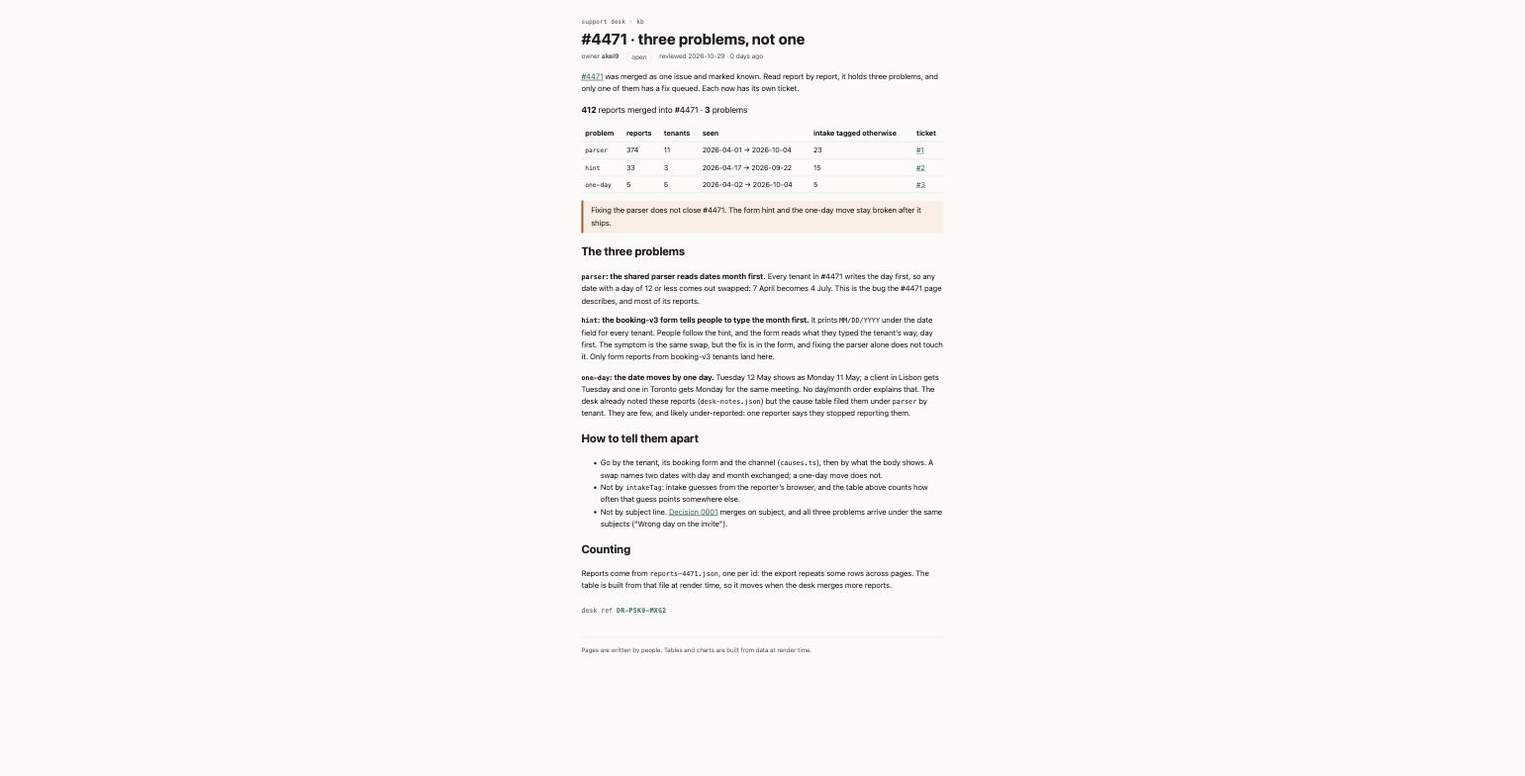
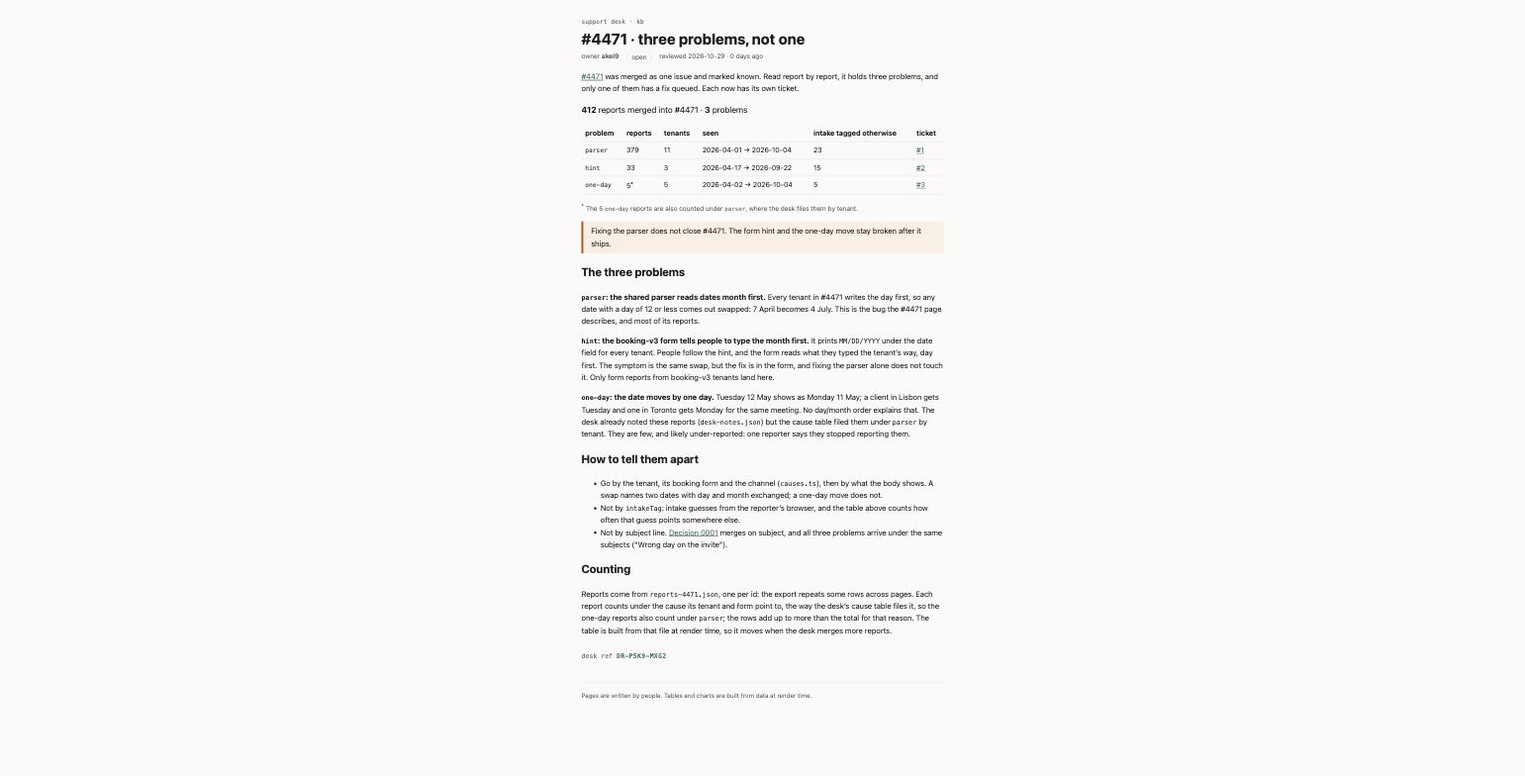
Count #4471's problems the desk's way: parser 379 incl. the 5 one-day reports
The table now reuses the desk's groupByCause and readAs, so the page matches
the desk's cause table and issue #1 (379). The one-day row is starred and
footnoted as also counted under parser. Re-rendered.

Changed region(s): [[0.3738, 0.2449, 0.623, 0.8571], [0.3738, 0.8878, 0.5295, 0.9184]]

diff --git a/rendered/kb/incidents/4471/problems.html b/rendered/kb/incidents/4471/problems.html
@@ -9,22 +9,22 @@
 		<link href="../../../_app/immutable/chunks/B2Ul7l_u.js" rel="modulepreload">
 		<link href="../../../_app/immutable/chunks/BCPXOG7W.js" rel="modulepreload">
 		<link href="../../../_app/immutable/chunks/Dh1V97Jm.js" rel="modulepreload">
-		<link href="../../../_app/immutable/entry/app.C34pQ1vo.js" rel="modulepreload">
+		<link href="../../../_app/immutable/entry/app.CI-gMAUJ.js" rel="modulepreload">
 		<link href="../../../_app/immutable/nodes/0.C9KfiiPz.js" rel="modulepreload">
 		<link href="../../../_app/immutable/chunks/DK3Fl9T5.js" rel="modulepreload">
-		<link href="../../../_app/immutable/nodes/5.VGcChs69.js" rel="modulepreload">
-		<link href="../../../_app/immutable/chunks/BUmm_ZmZ.js" rel="modulepreload">
+		<link href="../../../_app/immutable/nodes/5.C_yEuhtD.js" rel="modulepreload">
+		<link href="../../../_app/immutable/chunks/D4fybYTj.js" rel="modulepreload">
 		<link href="../../../_app/immutable/chunks/BTPwLomz.js" rel="modulepreload">
 		<link href="../../../_app/immutable/chunks/CVBzP17p.js" rel="modulepreload">
 		<link href="../../../_app/immutable/chunks/BIy4WKJS.js" rel="modulepreload">
 		<!--e2jw2j--><!----><title>#4471 · three problems, not one · support kb</title>
 		<link href="../../../_app/immutable/assets/runbook.COyw0cbZ.css" rel="stylesheet">
 		<link href="../../../_app/immutable/assets/Callout.AbLv9dM_.css" rel="stylesheet">
-		<link href="../../../_app/immutable/assets/_page.lbj36FF-.css" rel="stylesheet">
+		<link href="../../../_app/immutable/assets/_page.DUgw4t3M.css" rel="stylesheet">
   </head>
   <body data-sveltekit-preload-data="hover">
     <div style="display: contents"><!--[--><!--[--><!--[0--><!--[--><!--[--><!--[-1--><!--[--><div class="kb svelte-e2jw2j"><header><a class="crumb svelte-e2jw2j" href="/kb">support desk · kb</a> <h1 class="svelte-e2jw2j">#4471 · three problems, not one</h1> <p class="meta svelte-e2jw2j"><span>owner <b>akei9</b></span> <span class="status open svelte-e2jw2j">open</span> <span class="svelte-e2jw2j">reviewed 2026-10-29 · 0 days ago</span></p></header> <!--[-1--><!--]--> <main><p><a href="/kb/incidents/4471">#4471</a> was merged as one issue and marked known. Read report by report, it
-holds three problems, and only one of them has a fix queued. Each now has its own ticket.</p> <p class="sum svelte-1op6c6"><strong>412</strong> reports merged into #4471 · <strong>3</strong> problems</p> <table><thead><tr><th>problem</th><th>reports</th><th>tenants</th><th>seen</th><th>intake tagged otherwise</th><th>ticket</th></tr></thead><tbody><!--[--><tr class="svelte-1op6c6"><td class="svelte-1op6c6"><code>parser</code></td><td class="svelte-1op6c6">374</td><td class="svelte-1op6c6">11</td><td class="svelte-1op6c6">2026-04-01 → 2026-10-04</td><td class="svelte-1op6c6">23</td><td class="svelte-1op6c6"><!--[0--><a href="https://github.com/akei9/mega-dev/issues/1">#1</a><!--]--></td></tr><tr class="svelte-1op6c6"><td class="svelte-1op6c6"><code>hint</code></td><td class="svelte-1op6c6">33</td><td class="svelte-1op6c6">3</td><td class="svelte-1op6c6">2026-04-17 → 2026-09-22</td><td class="svelte-1op6c6">15</td><td class="svelte-1op6c6"><!--[0--><a href="https://github.com/akei9/mega-dev/issues/2">#2</a><!--]--></td></tr><tr class="svelte-1op6c6"><td class="svelte-1op6c6"><code>one-day</code></td><td class="svelte-1op6c6">5</td><td class="svelte-1op6c6">5</td><td class="svelte-1op6c6">2026-04-02 → 2026-10-04</td><td class="svelte-1op6c6">5</td><td class="svelte-1op6c6"><!--[0--><a href="https://github.com/akei9/mega-dev/issues/3">#3</a><!--]--></td></tr><!--]--></tbody></table><!----> <aside class="warn svelte-17bri61"><!---->Fixing the parser does not close #4471. The form hint and the one-day move stay broken after it ships.<!----></aside><!----> <h2>The three problems</h2> <p><strong><code>parser</code>: the shared parser reads dates month first.</strong> Every tenant in #4471 writes the day
+holds three problems, and only one of them has a fix queued. Each now has its own ticket.</p> <p class="sum svelte-1op6c6"><strong>412</strong> reports merged into #4471 · <strong>3</strong> problems</p> <table><thead><tr><th>problem</th><th>reports</th><th>tenants</th><th>seen</th><th>intake tagged otherwise</th><th>ticket</th></tr></thead><tbody><!--[--><tr class="svelte-1op6c6"><td class="svelte-1op6c6"><code>parser</code></td><td class="svelte-1op6c6">379<!--[-1--><!--]--></td><td class="svelte-1op6c6">11</td><td class="svelte-1op6c6">2026-04-01 → 2026-10-04</td><td class="svelte-1op6c6">23</td><td class="svelte-1op6c6"><!--[0--><a href="https://github.com/akei9/mega-dev/issues/1">#1</a><!--]--></td></tr><tr class="svelte-1op6c6"><td class="svelte-1op6c6"><code>hint</code></td><td class="svelte-1op6c6">33<!--[-1--><!--]--></td><td class="svelte-1op6c6">3</td><td class="svelte-1op6c6">2026-04-17 → 2026-09-22</td><td class="svelte-1op6c6">15</td><td class="svelte-1op6c6"><!--[0--><a href="https://github.com/akei9/mega-dev/issues/2">#2</a><!--]--></td></tr><tr class="svelte-1op6c6"><td class="svelte-1op6c6"><code>one-day</code></td><td class="svelte-1op6c6">5<!--[0--><sup>*</sup><!--]--></td><td class="svelte-1op6c6">5</td><td class="svelte-1op6c6">2026-04-02 → 2026-10-04</td><td class="svelte-1op6c6">5</td><td class="svelte-1op6c6"><!--[0--><a href="https://github.com/akei9/mega-dev/issues/3">#3</a><!--]--></td></tr><!--]--></tbody></table> <!--[--><p class="note svelte-1op6c6"><sup>*</sup> The 5 <code>one-day</code> reports are also counted under <!--[--><!----><code>parser</code><!--]-->, where the desk files them by tenant.</p><!--]--><!----> <aside class="warn svelte-17bri61"><!---->Fixing the parser does not close #4471. The form hint and the one-day move stay broken after it ships.<!----></aside><!----> <h2>The three problems</h2> <p><strong><code>parser</code>: the shared parser reads dates month first.</strong> Every tenant in #4471 writes the day
 first, so any date with a day of 12 or less comes out swapped: 7 April becomes 4 July. This is the
 bug the #4471 page describes, and most of its reports.</p> <p><strong><code>hint</code>: the booking-v3 form tells people to type the month first.</strong> It prints <code>MM/DD/YYYY</code> under the date field for every tenant. People follow the hint, and the form reads what they typed
 the tenant’s way, day first. The symptom is the same swap, but the fix is in the form, and fixing
@@ -35,21 +35,24 @@ them under <code>parser</code> by tenant. They are few, and likely under-reporte
 stopped reporting them.</p> <h2>How to tell them apart</h2> <ul><li>Go by the tenant, its booking form and the channel (<code>causes.ts</code>), then by what the body shows. A
 swap names two dates with day and month exchanged; a one-day move does not.</li> <li>Not by <code>intakeTag</code>: intake guesses from the reporter’s browser, and the table above counts how
 often that guess points somewhere else.</li> <li>Not by subject line. <a href="/kb/decisions/0001-dedupe-by-subject">Decision 0001</a> merges on subject,
-and all three problems arrive under the same subjects (“Wrong day on the invite”).</li></ul> <h2>Counting</h2> <p>Reports come from <code>reports-4471.json</code>, one per id: the export repeats some rows across pages. The
-table is built from that file at render time, so it moves when the desk merges more reports.</p> <!--[0--><p class="stamp svelte-1280m42">desk ref <b class="svelte-1280m42">DR-P5K9-MXG2</b></p><!--]--><!----><!----></main> <footer class="svelte-e2jw2j">Pages are written by people. Tables and charts are built from data at render time.</footer></div><!--]--><!--]--><!--]--><!----><!--]--><!--]--><!--]--><!----> <!--[-1--><!--]--><!--]-->
+and all three problems arrive under the same subjects (“Wrong day on the invite”).</li></ul> <h2>Counting</h2> <p>Reports come from <code>reports-4471.json</code>, one per id: the export repeats some rows across pages. Each
+report counts under the cause its tenant and form point to, the way the desk’s cause table files it,
+so the one-day reports also count under <code>parser</code>; the rows add up to more than the total for that
+reason. The table is built from that file at render time, so it moves when the desk merges more
+reports.</p> <!--[0--><p class="stamp svelte-1280m42">desk ref <b class="svelte-1280m42">DR-P5K9-MXG2</b></p><!--]--><!----><!----></main> <footer class="svelte-e2jw2j">Pages are written by people. Tables and charts are built from data at render time.</footer></div><!--]--><!--]--><!--]--><!----><!--]--><!--]--><!--]--><!----> <!--[-1--><!--]--><!--]-->
 			
 			<script>
 				{
-					__sveltekit_ez308u = {
+					__sveltekit_1kzz2r5 = {
 						base: new URL("../../..", location).pathname.slice(0, -1),
-						version: "1793236386397"
+						version: "1793236572917"
 					};
 
 					const element = document.currentScript.parentElement;
 
 					import("../../../_app/immutable/entry/start.CH5w6lId.js").then(async (kit) => {
-						kit.init(__sveltekit_ez308u);
-						const app = await import("../../../_app/immutable/entry/app.C34pQ1vo.js");
+						kit.init(__sveltekit_1kzz2r5);
+						const app = await import("../../../_app/immutable/entry/app.CI-gMAUJ.js");
 						kit.start(app, element, {
 							node_ids: [0, 5],
 							data: [null,null],

diff --git a/rendered/_app/immutable/chunks/D4fybYTj.js b/rendered/_app/immutable/chunks/D4fybYTj.js
@@ -1,0 +1,17 @@
+import{t as e}from"./DK3Fl9T5.js";import{E as t,F as n,H as r,I as i,K as a,L as o,N as s,O as c,R as l,S as u,T as d,U as f,W as p,_ as m,c as h,d as g,h as _,k as v,q as y,r as b,t as x,w as S}from"./BCPXOG7W.js";import{t as C}from"./BTPwLomz.js";import{n as w,t as T}from"./CVBzP17p.js";import{a as E,l as D,o as O,r as k,t as A}from"./BIy4WKJS.js";function j(e,t,n,r){let i=D(e).filter(e=>e.mergedInto===t),a=E(i,n),o=a.map(e=>({problem:e.cause,reports:e.reports,tenants:e.tenants,firstSeen:e.firstSeen,lastSeen:e.lastSeen,taggedOther:e.reports.filter(t=>t.meta.intakeTag!==e.cause).length,countedUnder:[]})),s=i.filter(e=>r.includes(e.id));if(s.length){let e=s.map(e=>e.receivedAt.slice(0,10)).sort();o.push({problem:`one-day`,reports:s,tenants:new Set(s.map(e=>e.tenant)).size,firstSeen:e[0],lastSeen:e[e.length-1],taggedOther:s.length,countedUnder:a.filter(e=>O(e,r)>0).map(e=>e.cause)})}return{merged:i.length,rows:o}}var M=t(`<sup>*</sup>`),N=t(`<a> </a>`),P=t(`<tr><td class="svelte-1op6c6"><code> </code></td><td class="svelte-1op6c6"> <!></td><td class="svelte-1op6c6"> </td><td class="svelte-1op6c6"> </td><td class="svelte-1op6c6"> </td><td class="svelte-1op6c6"><!></td></tr>`),F=t(` <code> </code>`,1),I=t(`<p class="note svelte-1op6c6"><sup>*</sup> <code> </code> reports are also counted under <!>, where the desk files them by tenant.</p>`),L=t(`<p class="sum svelte-1op6c6"><strong> </strong> <strong> </strong> </p> <table><thead><tr><th>problem</th><th>reports</th><th>tenants</th><th>seen</th><th>intake tagged otherwise</th><th>ticket</th></tr></thead><tbody></tbody></table> <!>`,1);function R(e,t){p(t,!0);let d=r(()=>j(w,t.ticket,k,T.oneDayMove)),b=e=>`#`+e.split(`/`).pop();var x=L(),C=i(x),E=n(C),D=o(E,!0),O=l(E),A=l(O),R=o(A,!0),z=l(A);y(C);var B=l(C,2),V=l(n(B));_(V,21,()=>v(d).rows,e=>e.problem,(e,i)=>{let a=r(()=>v(i).problem===`unplaced`?void 0:t.issues[v(i).problem]);var d=P();let f;var p=n(d),_=n(p),x=o(_,!0);y(p);var C=l(p),w=n(C,!0),T=l(w),E=e=>{var t=M();S(e,t)};m(T,e=>{v(i).countedUnder.length&&e(E)}),y(C);var D=l(C),O=o(D,!0),k=l(D),A=o(k),j=l(k),F=o(j,!0),I=l(j),L=n(I),R=e=>{var t=N(),n=o(t,!0);s(e=>{h(t,`href`,v(a)),u(n,e)},[()=>b(v(a))]),S(e,t)},z=e=>{var t=c(`no ticket yet`);S(e,t)};m(L,e=>{v(a)?e(R):e(z,-1)}),y(I),y(d),s(()=>{f=g(d,1,`svelte-1op6c6`,null,f,{open:!v(a)}),u(x,v(i).problem),u(w,v(i).reports.length),u(O,v(i).tenants),u(A,`${v(i).firstSeen??``} → ${v(i).lastSeen??``}`),u(F,v(i).taggedOther)}),S(e,d)}),y(V),y(B);var H=l(B,2);_(H,17,()=>v(d).rows.filter(e=>e.countedUnder.length),e=>e.problem,(e,t)=>{var r=I(),c=l(n(r)),d=l(c),f=o(d,!0),p=l(d,2);_(p,18,()=>v(t).countedUnder,e=>e,(e,t,n)=>{a();var r=F(),c=i(r,!0),d=l(c),f=o(d,!0);s(()=>{u(c,v(n)?`, `:``),u(f,t)}),S(e,r)}),a(),y(r),s(()=>{u(c,` The ${v(t).reports.length??``} `),u(f,v(t).problem)}),S(e,r)}),s(()=>{u(D,v(d).merged),u(O,` reports merged into #${t.ticket??``} · `),u(R,v(d).rows.length),u(z,` ${v(d).rows.length===1?`problem`:`problems`}`)}),S(e,x),f()}var z=`0123456789ABCDEFGHJKMNPQRSTVWXYZ`;function B(e,t){let n=t>>>0;for(let t=0;t<e.length;t++)n^=e.charCodeAt(t),n=Math.imul(n,16777619)>>>0;return n}function V(e){let t=e.trim(),n=B(t,2166136261),r=B(t,2654435769),i=BigInt(n)<<8n|BigInt(r&255),a=``;for(let e=0;e<8;e++)a=z[Number(i&31n)]+a,i>>=5n;return`DR-${a.slice(0,4)}-${a.slice(4)}`}var H=t(`<p class="stamp svelte-1280m42">desk ref <b class="svelte-1280m42"> </b></p>`),U=t(`<p class="stamp missing svelte-1280m42">no desk ref: this page isn't signed (no <code>signature</code> in its frontmatter)</p>`);function W(e,t){p(t,!0);let a=r(()=>t.signature?V(t.signature):null);var c=d(),h=i(c),g=e=>{var t=H(),r=l(n(t)),i=o(r,!0);y(t),s(()=>u(i,v(a))),S(e,t)},_=e=>{var t=U();S(e,t)};m(h,e=>{v(a)?e(g):e(_,-1)}),S(e,c),f()}var G=e({default:()=>$,metadata:()=>K}),K={layout:`runbook`,title:`#4471 · three problems, not one`,owner:`akei9`,status:`open`,reviewed:`2026-10-29T00:00:00.000Z`,signature:`v1.eyJzdWIiOiIxMDUxIiwiYXVkIjoiY2hhbGxlbmdlOndoYXQtaXQtc2hvd3MiLCJpYXQiOjE3OTMyMzYxMDAsImV4cCI6MTc5MzMyMjUwMH0.32QMIhauBYZtFXIuqAozmKy5GXE25UvGVQ1LhZ9hlCM`},{layout:q,title:J,owner:Y,status:X,reviewed:ee,signature:Z}=K,Q=t(`<p><a href="/kb/incidents/4471">#4471</a> was merged as one issue and marked known. Read report by report, it
+holds three problems, and only one of them has a fix queued. Each now has its own ticket.</p> <!> <!> <h2>The three problems</h2> <p><strong><code>parser</code>: the shared parser reads dates month first.</strong> Every tenant in #4471 writes the day
+first, so any date with a day of 12 or less comes out swapped: 7 April becomes 4 July. This is the
+bug the #4471 page describes, and most of its reports.</p> <p><strong><code>hint</code>: the booking-v3 form tells people to type the month first.</strong> It prints <code>MM/DD/YYYY</code> under the date field for every tenant. People follow the hint, and the form reads what they typed
+the tenant’s way, day first. The symptom is the same swap, but the fix is in the form, and fixing
+the parser alone does not touch it. Only form reports from booking-v3 tenants land here.</p> <p><strong><code>one-day</code>: the date moves by one day.</strong> Tuesday 12 May shows as Monday 11 May; a client in
+Lisbon gets Tuesday and one in Toronto gets Monday for the same meeting. No day/month order
+explains that. The desk already noted these reports (<code>desk-notes.json</code>) but the cause table filed
+them under <code>parser</code> by tenant. They are few, and likely under-reported: one reporter says they
+stopped reporting them.</p> <h2>How to tell them apart</h2> <ul><li>Go by the tenant, its booking form and the channel (<code>causes.ts</code>), then by what the body shows. A
+swap names two dates with day and month exchanged; a one-day move does not.</li> <li>Not by <code>intakeTag</code>: intake guesses from the reporter’s browser, and the table above counts how
+often that guess points somewhere else.</li> <li>Not by subject line. <a href="/kb/decisions/0001-dedupe-by-subject">Decision 0001</a> merges on subject,
+and all three problems arrive under the same subjects (“Wrong day on the invite”).</li></ul> <h2>Counting</h2> <p>Reports come from <code>reports-4471.json</code>, one per id: the export repeats some rows across pages. Each
+report counts under the cause its tenant and form point to, the way the desk’s cause table files it,
+so the one-day reports also count under <code>parser</code>; the rows add up to more than the total for that
+reason. The table is built from that file at render time, so it moves when the desk merges more
+reports.</p> <!>`,1);function $(e,t){let n=x(t,[`children`,`$$slots`,`$$events`,`$$legacy`]),r={parser:`https://github.com/akei9/mega-dev/issues/1`,hint:`https://github.com/akei9/mega-dev/issues/2`,"one-day":`https://github.com/akei9/mega-dev/issues/3`};C(e,b(()=>n,()=>K,{children:(e,t)=>{var n=Q(),o=l(i(n),2);R(o,{ticket:4471,get issues(){return r}});var s=l(o,2);A(s,{kind:`warn`,children:(e,t)=>{a();var n=c(`Fixing the parser does not close #4471. The form hint and the one-day move stay broken after it ships.`);S(e,n)},$$slots:{default:!0}}),W(l(s,18),{get signature(){return Z}}),S(e,n)},$$slots:{default:!0}}))}export{$ as n,G as t};

diff --git a/src/lib/kb/problems.ts b/src/lib/kb/problems.ts
@@ -1,11 +1,11 @@
-// #4471 split by what each report shows. causes.ts says which bug a report's tenant and form point to;
-// desk-notes.json lists the reports that show a one-day move instead. Those are a problem of their own,
-// not a footnote under `parser`.
-import { causeOf, uniqueById, type Cause, type Report, type Tenant } from '#lib/kb/causes';
+// #4471 split into the problems its reports show. Counted the desk's way: each report under the cause
+// its tenant and form point to (causes.ts). The reports the desk read as a one-day move
+// (desk-notes.json) stay counted where they're filed, and are a problem of their own on top.
+import { groupByCause, readAs, uniqueById, type Cause, type Report, type Tenant } from '#lib/kb/causes';
 
 export type Problem = Cause | 'one-day';
 
-export type ProblemGroup = {
+export type ProblemRow = {
   problem: Problem | 'unplaced';
   reports: Report[];
   tenants: number;
@@ -13,37 +13,40 @@ export type ProblemGroup = {
   lastSeen: string;
   // Reports intake tagged as something else (`meta.intakeTag` is a guess from the browser).
   taggedOther: number;
+  // For one-day: the cause each of its reports is counted under. Empty for the others.
+  countedUnder: string[];
 };
-
-export function problemOf(r: Report, t: Tenant | undefined, oneDay: readonly string[]): ProblemGroup['problem'] {
-  if (oneDay.includes(r.id)) return 'one-day';
-  return causeOf(r, t) ?? 'unplaced';
-}
 
 export function splitTicket(
   reports: Report[],
   ticket: number,
   tenantOf: (r: Report) => Tenant | undefined,
   oneDay: readonly string[],
-): { merged: number; groups: ProblemGroup[] } {
+): { merged: number; rows: ProblemRow[] } {
   const merged = uniqueById(reports).filter((r) => r.mergedInto === ticket);
-  const byProblem = new Map<ProblemGroup['problem'], Report[]>();
-  for (const r of merged) {
-    const p = problemOf(r, tenantOf(r), oneDay);
-    byProblem.set(p, [...(byProblem.get(p) ?? []), r]);
+  const groups = groupByCause(merged, tenantOf);
+  const rows: ProblemRow[] = groups.map((g) => ({
+    problem: g.cause,
+    reports: g.reports,
+    tenants: g.tenants,
+    firstSeen: g.firstSeen,
+    lastSeen: g.lastSeen,
+    taggedOther: g.reports.filter((r) => r.meta.intakeTag !== g.cause).length,
+    countedUnder: [],
+  }));
+
+  const moved = merged.filter((r) => oneDay.includes(r.id));
+  if (moved.length) {
+    const days = moved.map((r) => r.receivedAt.slice(0, 10)).sort();
+    rows.push({
+      problem: 'one-day',
+      reports: moved,
+      tenants: new Set(moved.map((r) => r.tenant)).size,
+      firstSeen: days[0],
+      lastSeen: days[days.length - 1],
+      taggedOther: moved.length,
+      countedUnder: groups.filter((g) => readAs(g, oneDay) > 0).map((g) => g.cause),
+    });
   }
-  const groups = [...byProblem.entries()]
-    .map(([problem, rs]) => {
-      const days = rs.map((r) => r.receivedAt.slice(0, 10)).sort();
-      return {
-        problem,
-        reports: rs,
-        tenants: new Set(rs.map((r) => r.tenant)).size,
-        firstSeen: days[0],
-        lastSeen: days[days.length - 1],
-        taggedOther: rs.filter((r) => r.meta.intakeTag !== problem).length,
-      };
-    })
-    .sort((a, b) => b.reports.length - a.reports.length);
-  return { merged: merged.length, groups };
+  return { merged: merged.length, rows };
 }

diff --git a/rendered/kb.html b/rendered/kb.html
@@ -9,22 +9,22 @@
 		<link href="./_app/immutable/chunks/B2Ul7l_u.js" rel="modulepreload">
 		<link href="./_app/immutable/chunks/BCPXOG7W.js" rel="modulepreload">
 		<link href="./_app/immutable/chunks/Dh1V97Jm.js" rel="modulepreload">
-		<link href="./_app/immutable/entry/app.C34pQ1vo.js" rel="modulepreload">
+		<link href="./_app/immutable/entry/app.CI-gMAUJ.js" rel="modulepreload">
 		<link href="./_app/immutable/nodes/0.C9KfiiPz.js" rel="modulepreload">
 		<link href="./_app/immutable/chunks/DK3Fl9T5.js" rel="modulepreload">
-		<link href="./_app/immutable/nodes/2.C8n5vXWO.js" rel="modulepreload">
+		<link href="./_app/immutable/nodes/2.BUaVmM_C.js" rel="modulepreload">
 		<link href="./_app/immutable/chunks/BTPwLomz.js" rel="modulepreload">
 		<link href="./_app/immutable/chunks/YX22L_Ud.js" rel="modulepreload">
 		<link href="./_app/immutable/chunks/CgeRC4yK.js" rel="modulepreload">
 		<link href="./_app/immutable/chunks/CVBzP17p.js" rel="modulepreload">
 		<link href="./_app/immutable/chunks/BIy4WKJS.js" rel="modulepreload">
-		<link href="./_app/immutable/chunks/BUmm_ZmZ.js" rel="modulepreload">
+		<link href="./_app/immutable/chunks/D4fybYTj.js" rel="modulepreload">
 		<link href="./_app/immutable/chunks/BGqJVSDw.js" rel="modulepreload">
 		<!--e2jw2j--><!----><title>Support knowledge base · support kb</title>
 		<link href="./_app/immutable/assets/runbook.COyw0cbZ.css" rel="stylesheet">
 		<link href="./_app/immutable/assets/Callout.AbLv9dM_.css" rel="stylesheet">
 		<link href="./_app/immutable/assets/_page.D56XP2ro.css" rel="stylesheet">
-		<link href="./_app/immutable/assets/_page.lbj36FF-.css" rel="stylesheet">
+		<link href="./_app/immutable/assets/_page.DUgw4t3M.css" rel="stylesheet">
 		<link href="./_app/immutable/assets/_page.DO6Yid7X.css" rel="stylesheet">
 		<link href="./_app/immutable/assets/2.Bt0MwIZg.css" rel="stylesheet">
   </head>
@@ -34,16 +34,16 @@ computed by a component, not typed into a paragraph.</p><!----></main> <footer c
 			
 			<script>
 				{
-					__sveltekit_ez308u = {
+					__sveltekit_1kzz2r5 = {
 						base: new URL(".", location).pathname.slice(0, -1),
-						version: "1793236386397"
+						version: "1793236572917"
 					};
 
 					const element = document.currentScript.parentElement;
 
 					import("./_app/immutable/entry/start.CH5w6lId.js").then(async (kit) => {
-						kit.init(__sveltekit_ez308u);
-						const app = await import("./_app/immutable/entry/app.C34pQ1vo.js");
+						kit.init(__sveltekit_1kzz2r5);
+						const app = await import("./_app/immutable/entry/app.CI-gMAUJ.js");
 						kit.start(app, element, {
 							node_ids: [0, 2],
 							data: [null,null],

diff --git a/rendered/_app/immutable/nodes/2.BUaVmM_C.js b/rendered/_app/immutable/nodes/2.BUaVmM_C.js
@@ -1,0 +1,2 @@
+import{E as e,F as t,I as n,K as r,L as i,N as a,R as o,S as s,U as c,W as l,c as u,d,h as f,i as p,k as m,q as h,r as g,t as _,w as v}from"../chunks/BCPXOG7W.js";import{n as y,r as b,t as x}from"../chunks/BTPwLomz.js";import{t as S}from"../chunks/YX22L_Ud.js";import{t as C}from"../chunks/CgeRC4yK.js";import{t as w}from"../chunks/D4fybYTj.js";import{t as T}from"../chunks/BGqJVSDw.js";var E=e(`<tr><td><a> </a></td><td> </td><td> </td><td> </td></tr>`),D=e(`<table><thead><tr><th>page</th><th>owner</th><th>status</th><th>reviewed</th></tr></thead><tbody></tbody></table>`);function O(e,n){l(n,!1);let r=Object.entries(Object.assign({"/src/routes/kb/decisions/0001-dedupe-by-subject/+page.svx":S,"/src/routes/kb/incidents/4471/+page.svx":C,"/src/routes/kb/incidents/4471/problems/+page.svx":w,"/src/routes/kb/triage/dedupe/+page.svx":T})).map(([e,t])=>({href:e.replace(`/src/routes`,``).replace(`/+page.svx`,``),...t.metadata})).sort((e,t)=>e.href.localeCompare(t.href));p();var g=D(),_=o(t(g));f(_,5,()=>r,e=>e.href,(e,n)=>{var r=E(),c=t(r),l=t(c),f=i(l,!0);h(c);var p=o(c),g=i(p,!0),_=o(p),x=i(_,!0),S=o(_);let C;var w=i(S,!0);h(r),a((e,t)=>{u(l,`href`,m(n).href),s(f,m(n).title),s(g,m(n).owner),s(x,m(n).status),C=d(S,1,`svelte-tbc1ha`,null,C,{stale:e}),s(w,t)},[()=>y(m(n).reviewed)>180,()=>b(m(n).reviewed)]),v(e,r)}),h(_),h(g),v(e,g),c()}var k={layout:`runbook`,title:`Support knowledge base`,owner:`support desk`,status:`living`,reviewed:`2026-09-28T00:00:00.000Z`},{layout:A,title:j,owner:M,status:N,reviewed:P}=k,F=e(`<p>What the support desk knows, kept next to the code that knows it. One desk, every product: <code>sched-prod</code> (calendar invites for about 300k people) and the rest. When something breaks, the reports land here first.</p> <p>Start with <a href="/kb/triage/dedupe">triage</a> if you are new on the desk.</p> <h2>Pages</h2> <!> <h2>Writing a page</h2> <p>Keep the words here and the logic in <code>src/lib</code>. A number that can be computed should be
+computed by a component, not typed into a paragraph.</p>`,1);function I(e,t){let i=_(t,[`children`,`$$slots`,`$$events`,`$$legacy`]);x(e,g(()=>i,()=>k,{children:(e,t)=>{var i=F();O(o(n(i),6),{}),r(4),v(e,i)},$$slots:{default:!0}}))}export{I as component};

diff --git a/rendered/_app/immutable/entry/app.CI-gMAUJ.js b/rendered/_app/immutable/entry/app.CI-gMAUJ.js
@@ -1,0 +1,2 @@
+const __vite__mapDeps=(i,m=__vite__mapDeps,d=(m.f||(m.f=["../nodes/0.C9KfiiPz.js","../chunks/DK3Fl9T5.js","../chunks/BCPXOG7W.js","../nodes/1.mOwa9YdW.js","../chunks/Dh1V97Jm.js","./payload.DSmR2FwN.js","../nodes/2.BUaVmM_C.js","../chunks/BTPwLomz.js","../assets/runbook.COyw0cbZ.css","../chunks/YX22L_Ud.js","../chunks/CgeRC4yK.js","../chunks/CVBzP17p.js","../chunks/BIy4WKJS.js","../assets/Callout.AbLv9dM_.css","../assets/_page.D56XP2ro.css","../chunks/D4fybYTj.js","../assets/_page.DUgw4t3M.css","../chunks/BGqJVSDw.js","../assets/_page.DO6Yid7X.css","../assets/2.Bt0MwIZg.css","../nodes/3.DRxPfvn3.js","../nodes/4.rt2PfD_4.js","../nodes/5.C_yEuhtD.js","../nodes/6.sFtxrtyV.js"])))=>i.map(i=>d[i]);
+import{t as e}from"../chunks/CRzLMJPS.js";var t={},n=[()=>e(()=>import(`../nodes/0.C9KfiiPz.js`),__vite__mapDeps([0,1,2]),import.meta.url),()=>e(()=>import(`../nodes/1.mOwa9YdW.js`),__vite__mapDeps([3,2,4,5]),import.meta.url),()=>e(()=>import(`../nodes/2.BUaVmM_C.js`),__vite__mapDeps([6,2,7,8,9,1,10,11,12,13,14,15,16,17,18,19]),import.meta.url),()=>e(()=>import(`../nodes/3.DRxPfvn3.js`),__vite__mapDeps([20,9,1,2,7,8]),import.meta.url),()=>e(()=>import(`../nodes/4.rt2PfD_4.js`),__vite__mapDeps([21,10,1,2,7,8,11,12,13,14]),import.meta.url),()=>e(()=>import(`../nodes/5.C_yEuhtD.js`),__vite__mapDeps([22,15,1,2,7,8,11,12,13,16]),import.meta.url),()=>e(()=>import(`../nodes/6.sFtxrtyV.js`),__vite__mapDeps([23,17,1,2,7,8,12,13,18]),import.meta.url)],r=[],i={"/kb":[2],"/kb/decisions/0001-dedupe-by-subject":[3],"/kb/incidents/4471":[4],"/kb/incidents/4471/problems":[5],"/kb/triage/dedupe":[6]},a={handleError:(({kind:e,error:t})=>{e===`unknown`&&console.error(t)}),reroute:(()=>{}),transport:{}},o=Object.fromEntries(Object.entries(a.transport).map(([e,t])=>[e,t.decode])),s=Object.fromEntries(Object.entries(a.transport).map(([e,t])=>[e,t.encode])),c=!1,l=(e,t)=>o[e](t),u=()=>e(()=>import(`../chunks/Bjy-W4x2.js`).then(e=>e.default),[],import.meta.url);export{l as decode,o as decoders,i as dictionary,s as encoders,u as get_error_template,c as hash,a as hooks,t as matchers,n as nodes,r as server_loads};

diff --git a/src/lib/kb/ProblemTable.svelte b/src/lib/kb/ProblemTable.svelte
@@ -14,8 +14,8 @@
 
 <p class="sum">
   <strong>{split.merged}</strong> reports merged into #{ticket} ·
-  <strong>{split.groups.length}</strong>
-  {split.groups.length === 1 ? 'problem' : 'problems'}
+  <strong>{split.rows.length}</strong>
+  {split.rows.length === 1 ? 'problem' : 'problems'}
 </p>
 
 <table>
@@ -23,11 +23,11 @@
     <tr><th>problem</th><th>reports</th><th>tenants</th><th>seen</th><th>intake tagged otherwise</th><th>ticket</th></tr>
   </thead>
   <tbody>
-    {#each split.groups as g (g.problem)}
+    {#each split.rows as g (g.problem)}
       {@const url = g.problem === 'unplaced' ? undefined : issues[g.problem]}
       <tr class:open={!url}>
         <td><code>{g.problem}</code></td>
-        <td>{g.reports.length}</td>
+        <td>{g.reports.length}{#if g.countedUnder.length}<sup>*</sup>{/if}</td>
         <td>{g.tenants}</td>
         <td>{g.firstSeen} → {g.lastSeen}</td>
         <td>{g.taggedOther}</td>
@@ -37,8 +37,16 @@
   </tbody>
 </table>
 
+{#each split.rows.filter((g) => g.countedUnder.length) as g (g.problem)}
+  <p class="note">
+    <sup>*</sup> The {g.reports.length} <code>{g.problem}</code> reports are also counted under
+    {#each g.countedUnder as c, i (c)}{i ? ', ' : ''}<code>{c}</code>{/each}, where the desk files them by tenant.
+  </p>
+{/each}
+
 <style>
   .sum { font-size: 1.1rem; }
+  .note { color: var(--muted); font-size: 0.85em; }
   .open td { background: var(--warn-bg); }
   .open td:last-child { color: var(--warn); font-weight: 600; }
 </style>

diff --git a/rendered/kb/decisions/0001-dedupe-by-subject.html b/rendered/kb/decisions/0001-dedupe-by-subject.html
@@ -9,7 +9,7 @@
 		<link href="../../_app/immutable/chunks/B2Ul7l_u.js" rel="modulepreload">
 		<link href="../../_app/immutable/chunks/BCPXOG7W.js" rel="modulepreload">
 		<link href="../../_app/immutable/chunks/Dh1V97Jm.js" rel="modulepreload">
-		<link href="../../_app/immutable/entry/app.C34pQ1vo.js" rel="modulepreload">
+		<link href="../../_app/immutable/entry/app.CI-gMAUJ.js" rel="modulepreload">
 		<link href="../../_app/immutable/nodes/0.C9KfiiPz.js" rel="modulepreload">
 		<link href="../../_app/immutable/chunks/DK3Fl9T5.js" rel="modulepreload">
 		<link href="../../_app/immutable/nodes/3.DRxPfvn3.js" rel="modulepreload">
@@ -26,16 +26,16 @@ engineering merges them later.</li></ul><!----></main> <footer class="svelte-e2j
 			
 			<script>
 				{
-					__sveltekit_ez308u = {
+					__sveltekit_1kzz2r5 = {
 						base: new URL("../..", location).pathname.slice(0, -1),
-						version: "1793236386397"
+						version: "1793236572917"
 					};
 
 					const element = document.currentScript.parentElement;
 
 					import("../../_app/immutable/entry/start.CH5w6lId.js").then(async (kit) => {
-						kit.init(__sveltekit_ez308u);
-						const app = await import("../../_app/immutable/entry/app.C34pQ1vo.js");
+						kit.init(__sveltekit_1kzz2r5);
+						const app = await import("../../_app/immutable/entry/app.CI-gMAUJ.js");
 						kit.start(app, element, {
 							node_ids: [0, 3],
 							data: [null,null],

diff --git a/rendered/kb/incidents/4471.html b/rendered/kb/incidents/4471.html
@@ -9,7 +9,7 @@
 		<link href="../../_app/immutable/chunks/B2Ul7l_u.js" rel="modulepreload">
 		<link href="../../_app/immutable/chunks/BCPXOG7W.js" rel="modulepreload">
 		<link href="../../_app/immutable/chunks/Dh1V97Jm.js" rel="modulepreload">
-		<link href="../../_app/immutable/entry/app.C34pQ1vo.js" rel="modulepreload">
+		<link href="../../_app/immutable/entry/app.CI-gMAUJ.js" rel="modulepreload">
 		<link href="../../_app/immutable/nodes/0.C9KfiiPz.js" rel="modulepreload">
 		<link href="../../_app/immutable/chunks/DK3Fl9T5.js" rel="modulepreload">
 		<link href="../../_app/immutable/nodes/4.rt2PfD_4.js" rel="modulepreload">
@@ -29,16 +29,16 @@ first. The fix is queued.</p> <aside class="note svelte-17bri61"><!---->Known. O
 			
 			<script>
 				{
-					__sveltekit_ez308u = {
+					__sveltekit_1kzz2r5 = {
 						base: new URL("../..", location).pathname.slice(0, -1),
-						version: "1793236386397"
+						version: "1793236572917"
 					};
 
 					const element = document.currentScript.parentElement;
 
 					import("../../_app/immutable/entry/start.CH5w6lId.js").then(async (kit) => {
-						kit.init(__sveltekit_ez308u);
-						const app = await import("../../_app/immutable/entry/app.C34pQ1vo.js");
+						kit.init(__sveltekit_1kzz2r5);
+						const app = await import("../../_app/immutable/entry/app.CI-gMAUJ.js");
 						kit.start(app, element, {
 							node_ids: [0, 4],
 							data: [null,null],

diff --git a/rendered/kb/triage/dedupe.html b/rendered/kb/triage/dedupe.html
@@ -9,7 +9,7 @@
 		<link href="../../_app/immutable/chunks/B2Ul7l_u.js" rel="modulepreload">
 		<link href="../../_app/immutable/chunks/BCPXOG7W.js" rel="modulepreload">
 		<link href="../../_app/immutable/chunks/Dh1V97Jm.js" rel="modulepreload">
-		<link href="../../_app/immutable/entry/app.C34pQ1vo.js" rel="modulepreload">
+		<link href="../../_app/immutable/entry/app.CI-gMAUJ.js" rel="modulepreload">
 		<link href="../../_app/immutable/nodes/0.C9KfiiPz.js" rel="modulepreload">
 		<link href="../../_app/immutable/chunks/DK3Fl9T5.js" rel="modulepreload">
 		<link href="../../_app/immutable/nodes/6.sFtxrtyV.js" rel="modulepreload">
@@ -29,16 +29,16 @@ anything else.<!----></aside><!----> <h2>Try it</h2> <div class="try svelte-gq0h
 			
 			<script>
 				{
-					__sveltekit_ez308u = {
+					__sveltekit_1kzz2r5 = {
 						base: new URL("../..", location).pathname.slice(0, -1),
-						version: "1793236386397"
+						version: "1793236572917"
 					};
 
 					const element = document.currentScript.parentElement;
 
 					import("../../_app/immutable/entry/start.CH5w6lId.js").then(async (kit) => {
-						kit.init(__sveltekit_ez308u);
-						const app = await import("../../_app/immutable/entry/app.C34pQ1vo.js");
+						kit.init(__sveltekit_1kzz2r5);
+						const app = await import("../../_app/immutable/entry/app.CI-gMAUJ.js");
 						kit.start(app, element, {
 							node_ids: [0, 6],
 							data: [null,null],

diff --git a/rendered/_app/immutable/assets/_page.DUgw4t3M.css b/rendered/_app/immutable/assets/_page.DUgw4t3M.css
@@ -1,0 +1,1 @@
+.sum.svelte-1op6c6{font-size:1.1rem}.note.svelte-1op6c6{color:var(--muted);font-size:.85em}.open.svelte-1op6c6 td:where(.svelte-1op6c6){background:var(--warn-bg)}.open.svelte-1op6c6 td:where(.svelte-1op6c6):last-child{color:var(--warn);font-weight:600}.stamp.svelte-1280m42{font:.85rem var(--mono);color:var(--muted);margin:2rem 0 0}.stamp.svelte-1280m42 b:where(.svelte-1280m42){color:var(--accent);letter-spacing:.04em}.missing.svelte-1280m42{color:var(--warn)}

diff --git a/rendered/_app/immutable/nodes/5.C_yEuhtD.js b/rendered/_app/immutable/nodes/5.C_yEuhtD.js
@@ -1,0 +1,1 @@
+export{n as component}from"../chunks/D4fybYTj.js";
